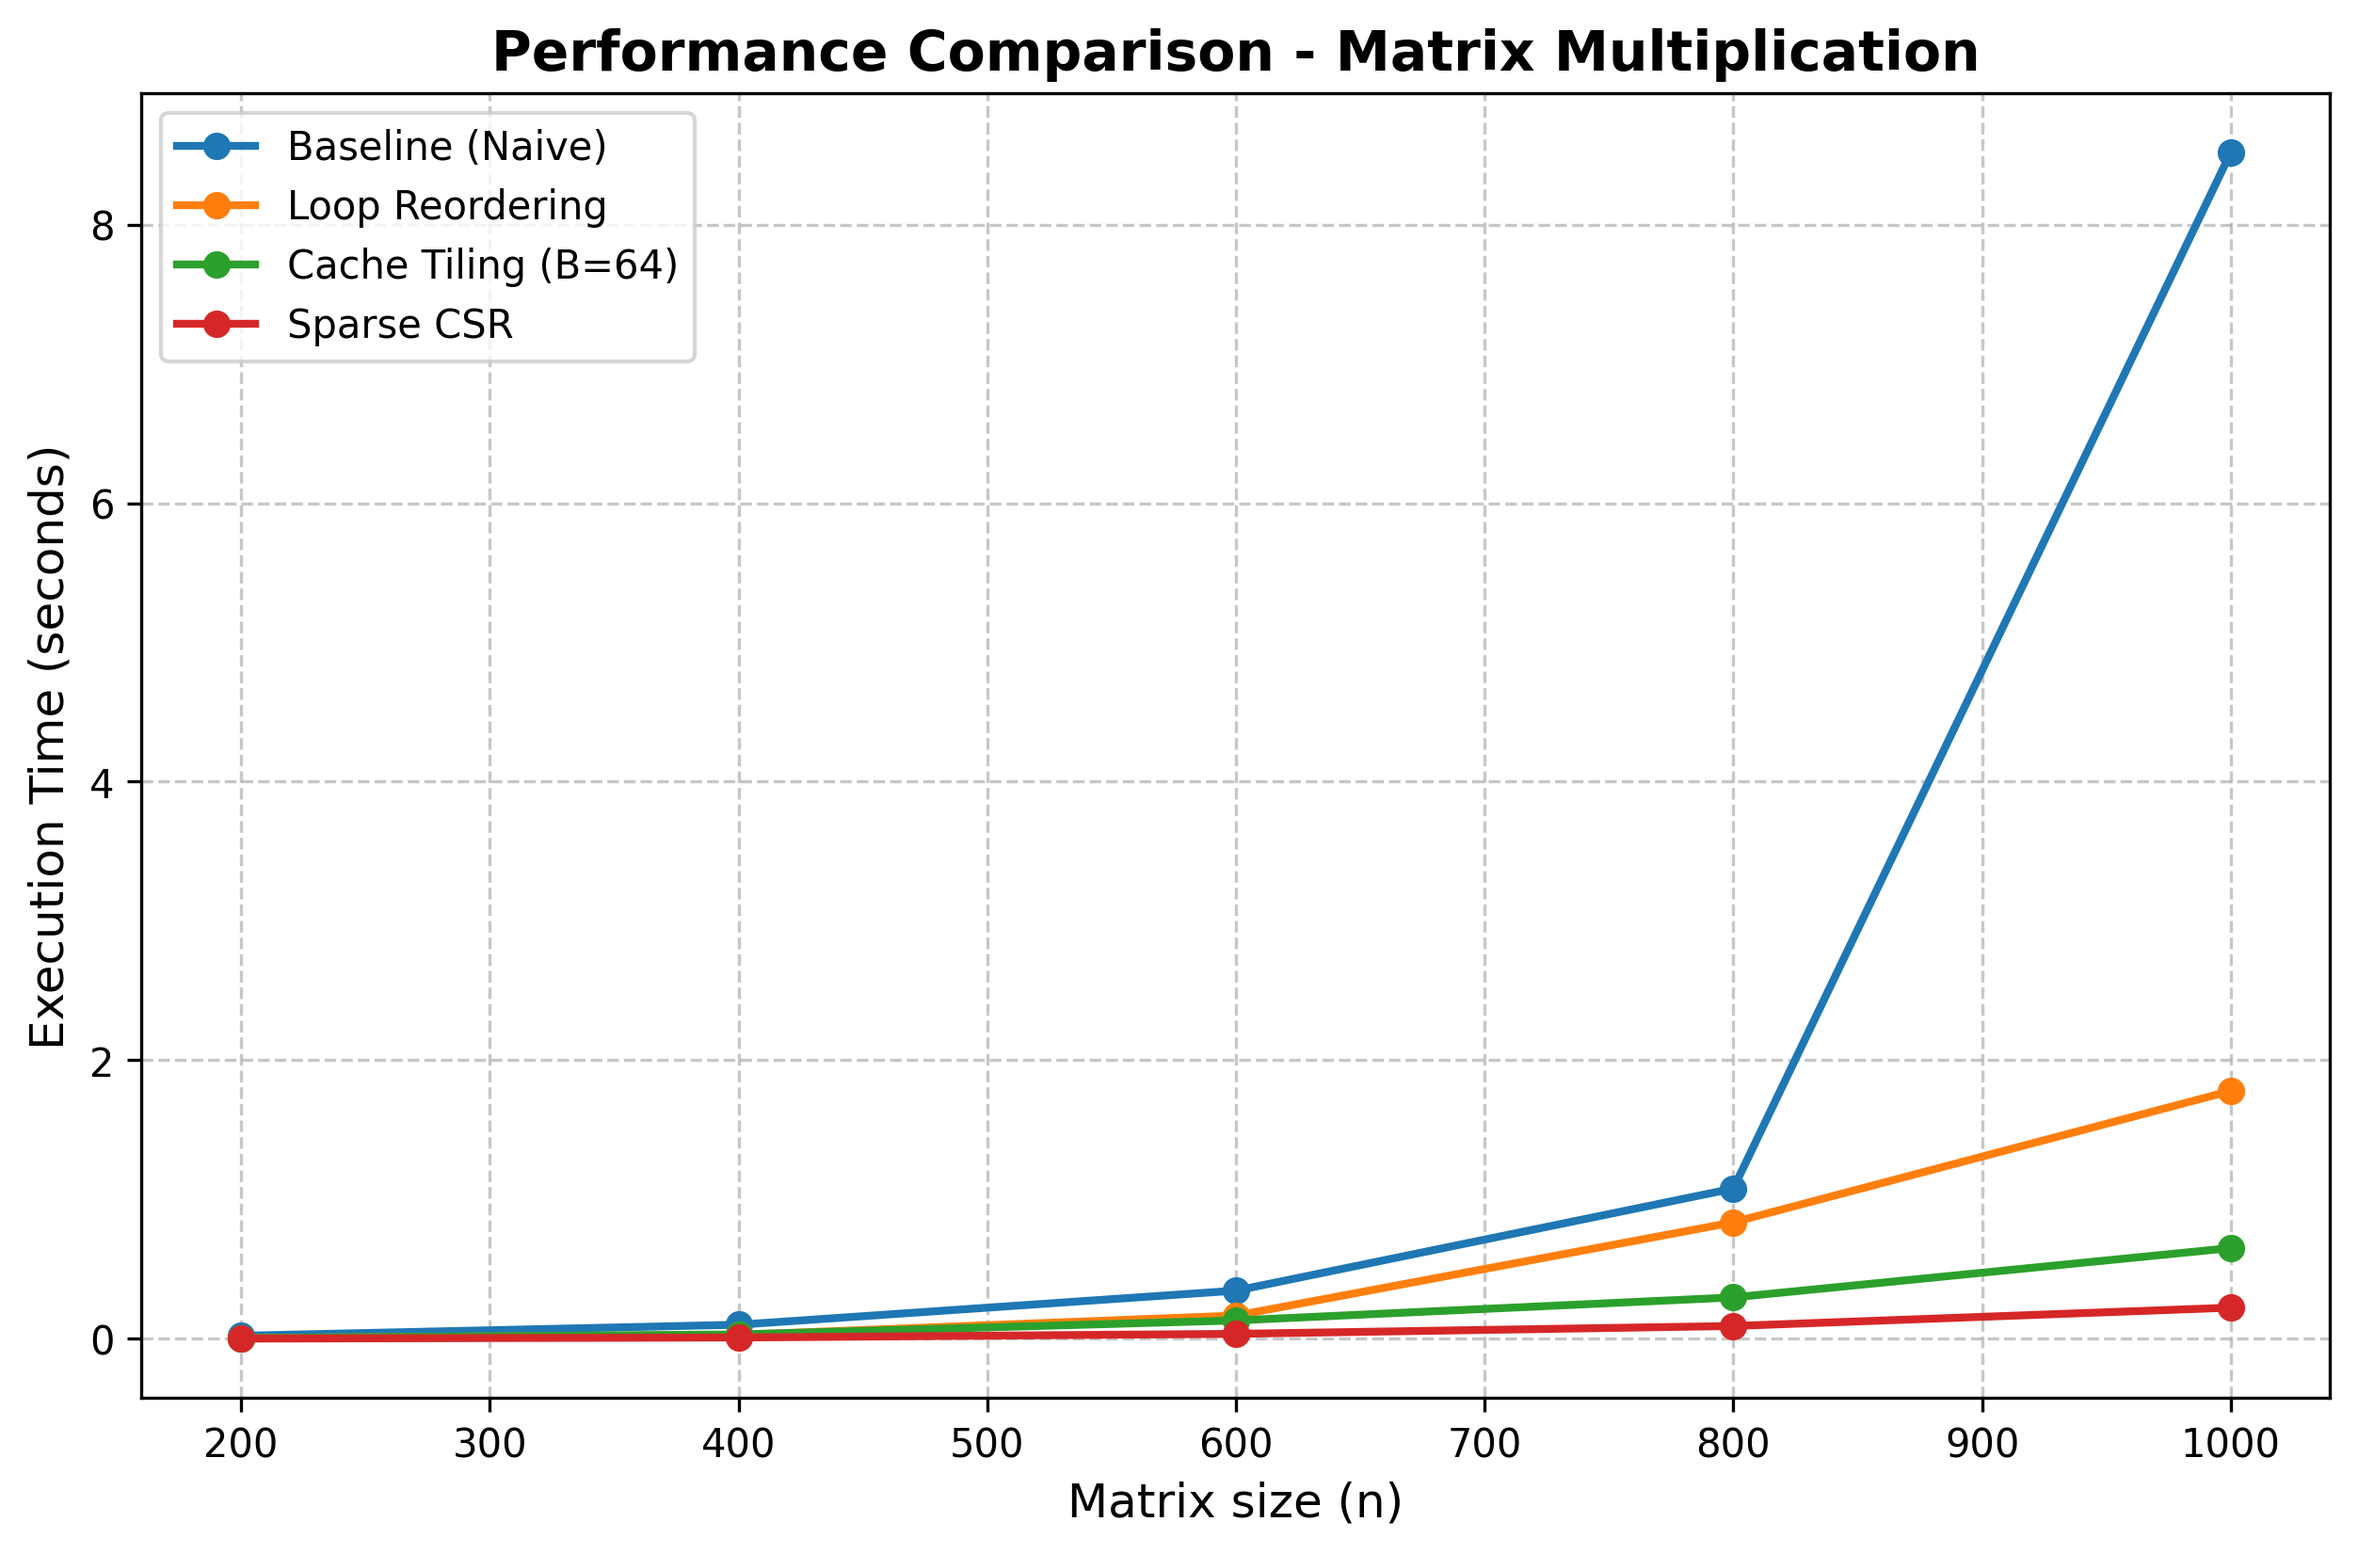
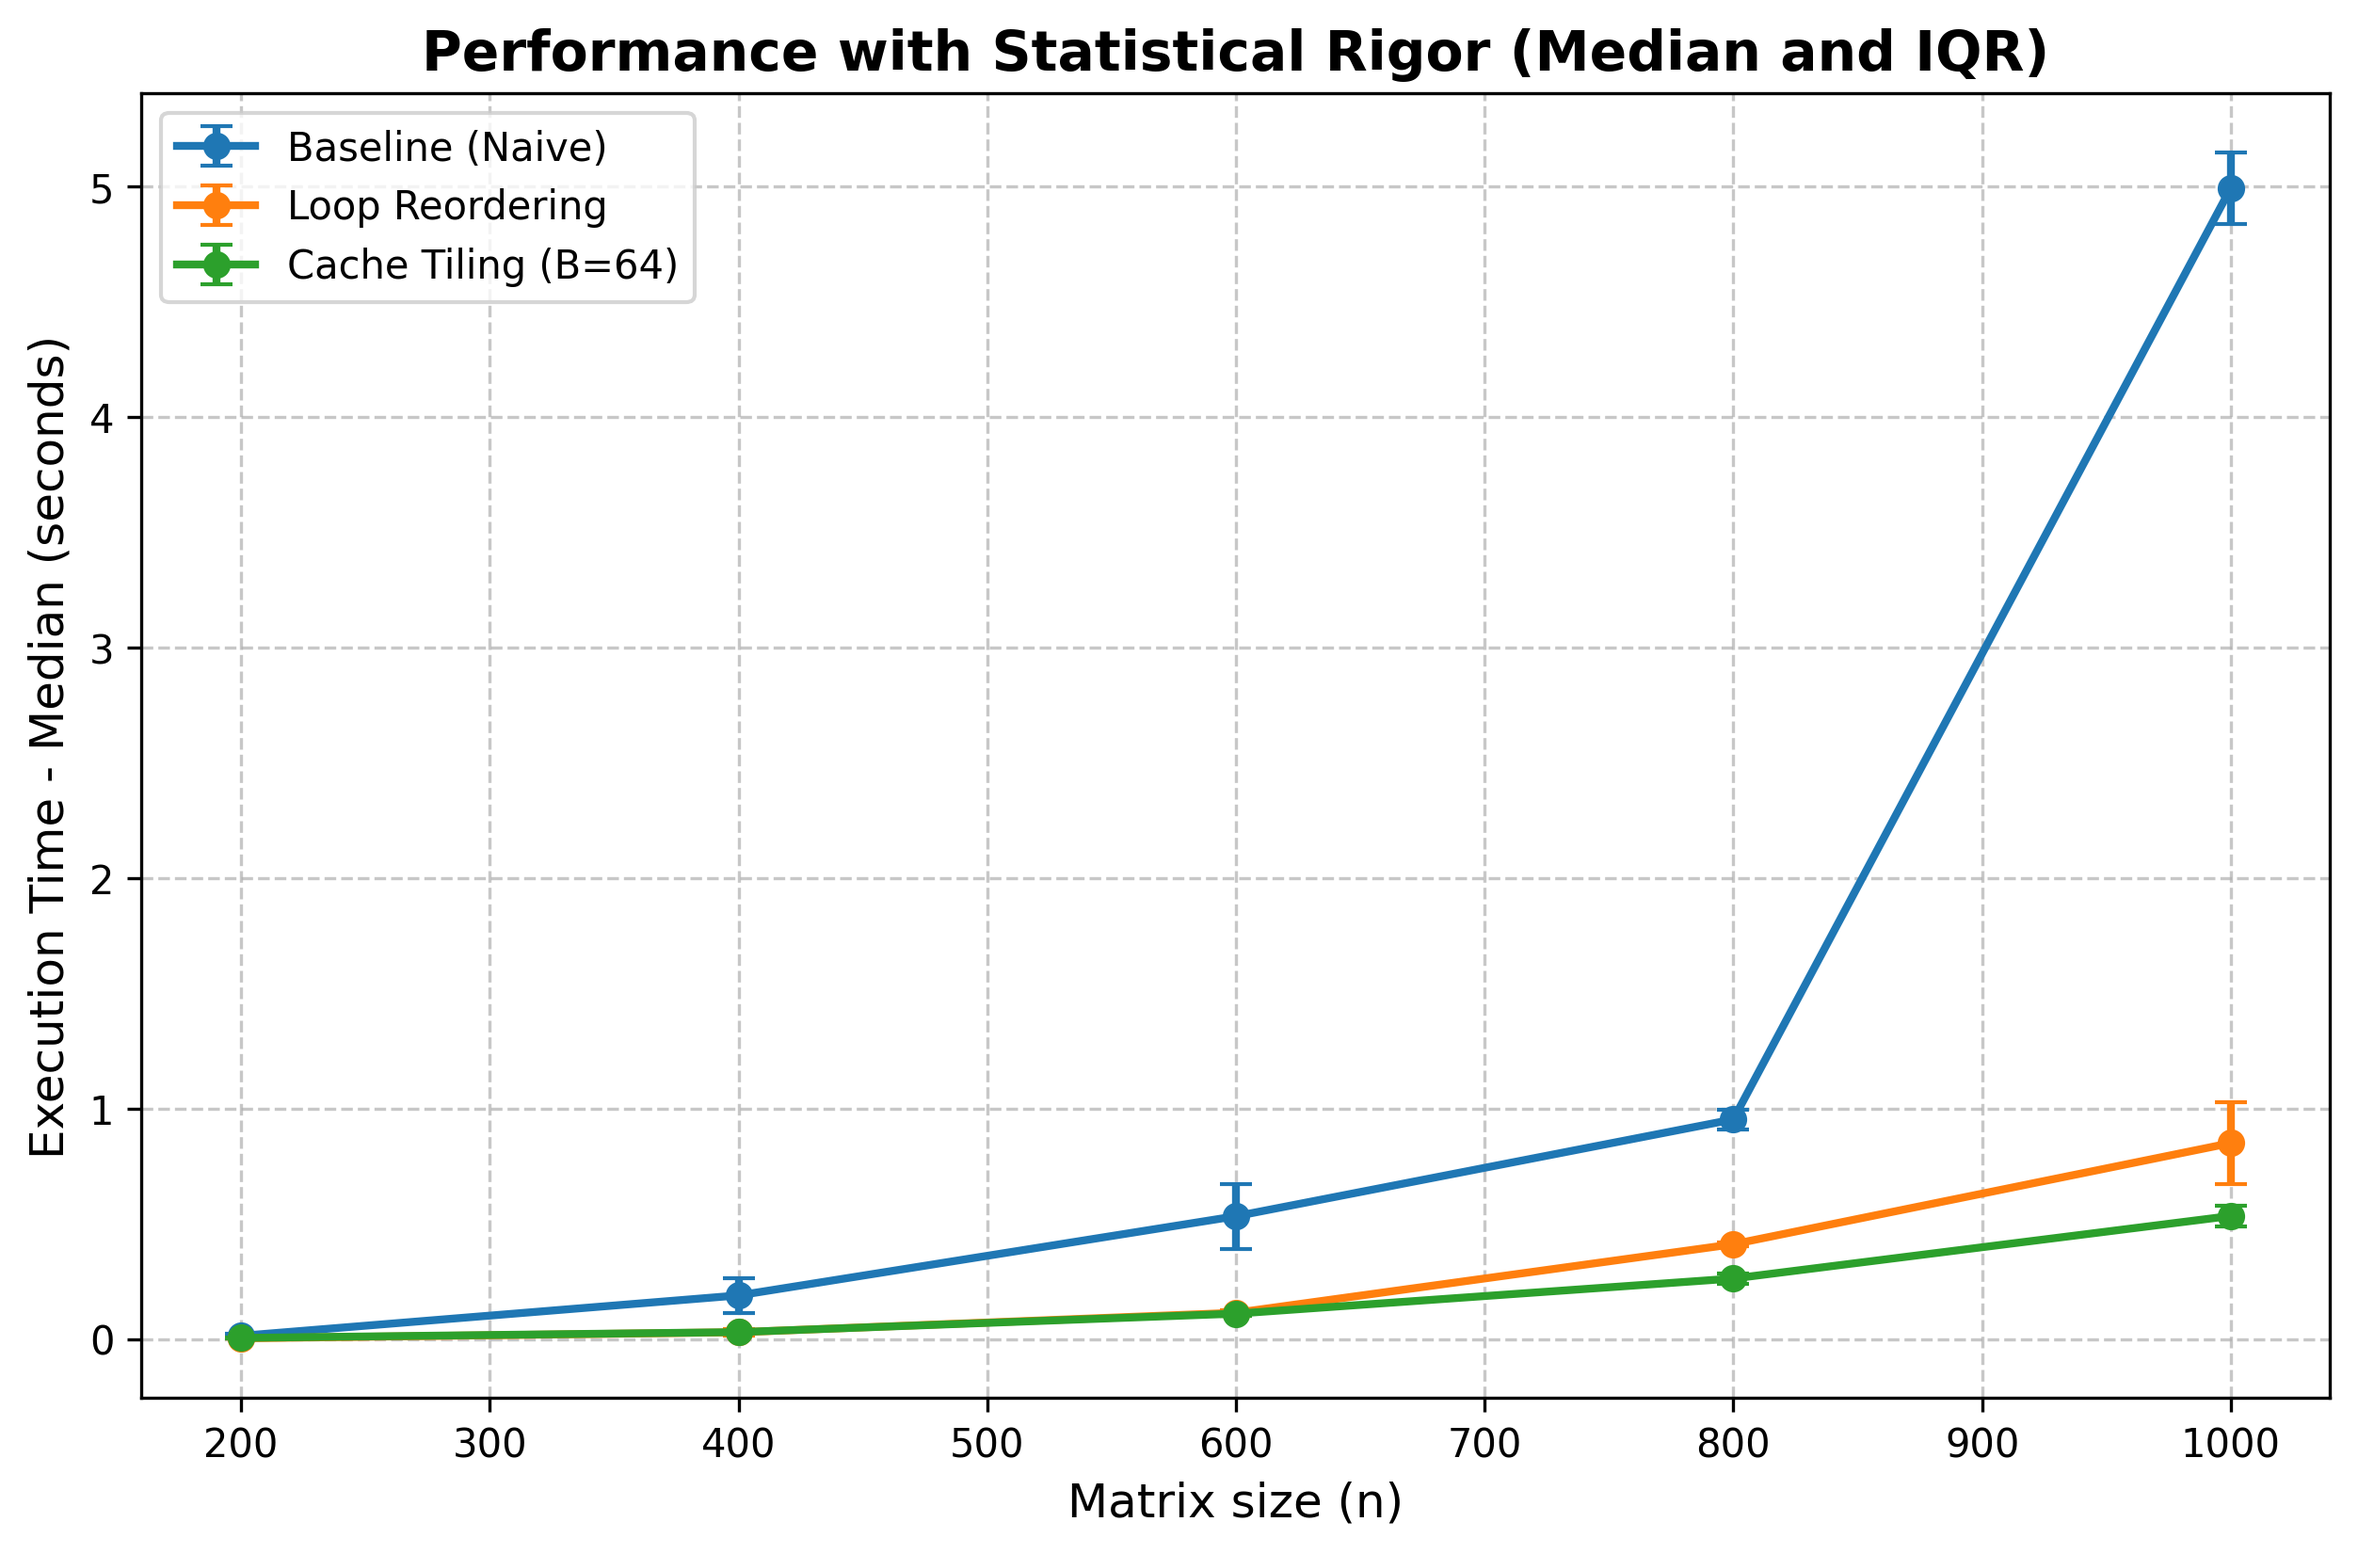
Corrections

diff --git a/assignment_2/src/sparse_mult.c b/assignment_2/src/sparse_mult.c
@@ -11,29 +11,24 @@ typedef struct {
     int *row_ptr;
 } CSRMatrix;
 
-void multiply_dense_csr(int n, double **A, CSRMatrix *B, double **C) {
+double** allocate_matrix(int n) {
+    double **matrix = (double **)malloc(n * sizeof(double *));
+    if (!matrix) { exit(EXIT_FAILURE); }
     for (int i = 0; i < n; i++) {
-        for (int j = 0; j < n; j++) {
-            C[i][j] = 0.0;
-        }
+        matrix[i] = (double *)malloc(n * sizeof(double));
+        if (!matrix[i]) { exit(EXIT_FAILURE); }
     }
-
-    for (int i = 0; i < n; i++) {
-        for (int k = 0; k < n; k++) {
-            double a_ik = A[i][k];
-            if (a_ik != 0.0) {
-                int row_start = B->row_ptr[k];
-                int row_end = B->row_ptr[k + 1];
-                for (int idx = row_start; idx < row_end; idx++) {
-                    int j = B->col_indices[idx];
-                    C[i][j] += a_ik * B->values[idx];
-                }
-            }
-        }
-    }
+    return matrix;
 }
 
-CSRMatrix* create_csr_from_dense(int n, double **dense_matrix, double sparsity_threshold) {
+void free_matrix(int n, double **matrix) {
+    for (int i = 0; i < n; i++) {
+        free(matrix[i]);
+    }
+    free(matrix);
+}
+
+CSRMatrix* create_csr_from_dense(int n, double **dense_matrix) {
     CSRMatrix *csr = (CSRMatrix *)malloc(sizeof(CSRMatrix));
     csr->rows = n;
     csr->cols = n;
@@ -41,9 +36,7 @@ CSRMatrix* create_csr_from_dense(int n, double **dense_matrix, double sparsity_t
     int nnz = 0;
     for (int i = 0; i < n; i++) {
         for (int j = 0; j < n; j++) {
-            if (dense_matrix[i][j] != 0.0) {
-                nnz++;
-            }
+            if (dense_matrix[i][j] != 0.0) nnz++;
         }
     }
     csr->non_zeros = nnz;
@@ -76,49 +69,69 @@ void free_csr(CSRMatrix *csr) {
     free(csr);
 }
 
-double** allocate_matrix(int n) {
-    double **matrix = (double **)malloc(n * sizeof(double *));
+void multiply_dense_csr(int n, double **A, CSRMatrix *B, double **C) {
     for (int i = 0; i < n; i++) {
-        matrix[i] = (double *)malloc(n * sizeof(double));
+        for (int j = 0; j < n; j++) {
+            C[i][j] = 0.0;
+        }
     }
-    return matrix;
-}
 
-void free_matrix(int n, double **matrix) {
     for (int i = 0; i < n; i++) {
-        free(matrix[i]);
+        for (int k = 0; k < n; k++) {
+            double a_ik = A[i][k];
+            if (a_ik != 0.0) {
+                int row_start = B->row_ptr[k];
+                int row_end = B->row_ptr[k + 1];
+                for (int idx = row_start; idx < row_end; idx++) {
+                    int j = B->col_indices[idx];
+                    C[i][j] += a_ik * B->values[idx];
+                }
+            }
+        }
     }
-    free(matrix);
 }
 
 int main(int argc, char *argv[]) {
-    int n = (argc > 1) ? atoi(argv[1]) : 500;
+    if (argc < 2) {
+        fprintf(stderr, "Usage: %s <matrix_size>\n", argv[0]);
+        return EXIT_FAILURE;
+    }
+
+    int n = atoi(argv[1]);
+    double sparsity_target = (argc > 2) ? atof(argv[2]) : 0.8;
 
     double **A = allocate_matrix(n);
     double **B_dense = allocate_matrix(n);
     double **C = allocate_matrix(n);
 
+    srand(42);
     for (int i = 0; i < n; i++) {
         for (int j = 0; j < n; j++) {
-            A[i][j] = (i + j) % 5 == 0 ? (i + j) % 10 + 1.0 : 0.0;
-            B_dense[i][j] = (i * j) % 7 == 0 ? (i - j) % 10 + 1.0 : 0.0;
+            A[i][j] = ((double)rand() / RAND_MAX < 0.5) ? ((double)(rand() % 10) + 1.0) : 0.0;
+            
+            double prob = (double)rand() / RAND_MAX;
+            B_dense[i][j] = (prob >= sparsity_target) ? ((double)(rand() % 10) + 1.0) : 0.0;
             C[i][j] = 0.0;
         }
     }
 
-    CSRMatrix *B_csr = create_csr_from_dense(n, B_dense, 0.0);
+    struct timespec conv_start, conv_end;
+    clock_gettime(CLOCK_MONOTONIC, &conv_start);
+    CSRMatrix *B_csr = create_csr_from_dense(n, B_dense);
+    clock_gettime(CLOCK_MONOTONIC, &conv_end);
+    double conversion_time = (conv_end.tv_sec - conv_start.tv_sec) + (conv_end.tv_nsec - conv_start.tv_nsec) / 1e9;
 
     struct timespec start, end;
     clock_gettime(CLOCK_MONOTONIC, &start);
-
     multiply_dense_csr(n, A, B_csr, C);
-
     clock_gettime(CLOCK_MONOTONIC, &end);
-
     double elapsed = (end.tv_sec - start.tv_sec) + (end.tv_nsec - start.tv_nsec) / 1e9;
 
-    printf("SPARSE MULT (CSR): n = %d | Non-zeros in B = %d | Time = %.6f seconds\n", 
-           n, B_csr->non_zeros, elapsed);
+    double checksum = 0.0;
+    for (int i = 0; i < n; i++) checksum += C[i][i];
+
+    printf("SPARSE CSR: n = %d | NNZ(B) = %d | ConvTime = %.6fs | MultTime = %.6fs | Checksum = %.4f\n", 
+           n, B_csr->non_zeros, conversion_time, elapsed, checksum);
 
     free_matrix(n, A);
     free_matrix(n, B_dense);

diff --git a/assignment_2/scripts/benchmark.py b/assignment_2/scripts/benchmark.py
@@ -1,9 +1,12 @@
 import subprocess
 import re
 import os
+import numpy as np
 import matplotlib.pyplot as plt
 
 sizes = [200, 400, 600, 800, 1000]
+repetitions = 7
+sparsity_level = 0.8
 
 executables = {
     'Baseline (Naive)': './baseline.exe',
@@ -12,60 +15,69 @@ executables = {
     'Sparse CSR': './sparse_mult.exe'
 }
 
-data = {name: [] for name in executables}
-
 os.makedirs('results', exist_ok=True)
+raw_records = []
+summary_data = {name: {'sizes': [], 'median': [], 'iqr': []} for name in executables}
 
 print("Starting performance tests (benchmarks)...")
 
-for n in sizes:
-    print(f" Testing matrix size n = {n}...")
-    for name, exe in executables.items():
-        if not os.path.exists(exe):
-            print(f"  [Warning] Not found {exe}. Compile it before running the script.")
-            data[name].append(None)
-            continue
-
-        args = [exe, str(n)]
-        if 'Cache Tiling' in name:
-            args.append('64')
+for name, exe in executables.items():
+    if not os.path.exists(exe):
+        print(f"  [Warning] Not found {exe}. Compile it before running the script.")
+        continue
+    print(f"\n Running {name}...")
+    
+    for n in sizes:
+        times = []
+        for rep in range(repetitions):
+            args = [exe, str(n)]
+            if 'Cache Tiling' in name:
+                args.append('64')
+            elif 'Sparse CSR' in name:
+                args.append(str(sparsity_level))
             
-        try:
-            result = subprocess.run(args, capture_output=True, text=True, check=True)
-            output = result.stdout
+            try:
+                result = subprocess.run(args, capture_output=True, text=True, check=True)
+                match = re.search(r'(?:Time|MultTime)\s*=\s*([0-9.]+)\s*seconds', result.stdout)
+                if match:
+                    t = float(match.group(1))
+                    times.append(t)
+                    is_warmup = "Yes" if rep == 0 else "No"
+                    raw_records.append(f"{n},{name},{rep},{is_warmup},{t}\n")
+            except Exception as e:
+                print(f" [Error] n={n}, rep={rep}: {e}")
+        
+        valid_times = times[1:] if len(times) > 1 else times
+        if valid_times:
+            med = np.median(valid_times)
+            q75, q25 = np.percentile(valid_times, [75 ,25])
+            iqr = q75 - q25
             
-            match = re.search(r'Time\s*=\s*([0-9.]+)\s*seconds', output)
-            if match:
-                t = float(match.group(1))
-                data[name].append(t)
-            else:
-                data[name].append(None)
-        except Exception as e:
-            print(f"  [Error] Execution failed for {exe}: {e}")
-            data[name].append(None)
-
-csv_path = 'results/benchmark_results.csv'
-with open(csv_path, 'w', encoding='utf-8') as f:
-    f.write("Size," + ",".join(executables.keys()) + "\n")
-    for i, n in enumerate(sizes):
-        row = [str(n)]
-        for name in executables.keys():
-            val = data[name][i] if i < len(data[name]) else None
-            row.append(str(val) if val is not None else "N/A")
-        f.write(",".join(row) + "\n")
-
-print(f"\n Results saved successfully in '{csv_path}'")
+            summary_data[name]['sizes'].append(n)
+            summary_data[name]['median'].append(med)
+            summary_data[name]['iqr'].append(iqr)
+            print(f" n={n:4d} | Median: {med:.6f} s | IQR: {iqr:.6f} s")
+            
+raw_csv_path = 'results/benchmark_results.csv'
+with open(raw_csv_path, 'w', encoding='utf-8') as f:
+    f.write("Size,Method,Repetition,IsWarmup,TimeSeconds\n")
+    f.writelines(raw_records)
+print(f"\n Results saved successfully in '{raw_csv_path}'")
 
 plt.figure(figsize=(10, 6))
-for name, times in data.items():
-    valid_times = [t for t in times if t is not None]
-    valid_sizes = [sizes[i] for i, t in enumerate(times) if t is not None]
-    if valid_times:
-        plt.plot(valid_sizes, valid_times, marker='o', linewidth=2, label=name)
-
+for name, dat in summary_data.items():
+        if dat['sizes']:
+            plt.errorbar(
+                dat['sizes'],
+                dat['median'],
+                yerr=dat['iqr'],
+                marker='o', linewidth=2, capsize=4,
+                label=name
+            )
+            
 plt.xlabel('Matrix size (n)', fontsize=12)
-plt.ylabel('Execution Time (seconds)', fontsize=12)
-plt.title('Performance Comparison - Matrix Multiplication', fontsize=14, fontweight='bold')
+plt.ylabel('Execution Time - Median (seconds)', fontsize=12)
+plt.title('Performance with Statistical Rigor (Median and IQR)', fontsize=14, fontweight='bold')
 plt.legend(fontsize=10)
 plt.grid(True, linestyle='--', alpha=0.7)
 

diff --git a/assignment_2/src/baseline.c b/assignment_2/src/baseline.c
@@ -2,22 +2,18 @@
 #include <stdlib.h>
 #include <time.h>
 
-void multiply_baseline(int n, double **A, double **B, double **C) {
-    for (int i = 0; i < n; i++) {
-        for (int j = 0; j < n; j++) {
-            double sum = 0.0;
-            for (int k = 0; k < n; k++) {
-                sum += A[i][k] * B[k][j];
-            }
-            C[i][j] = sum;
-        }
-    }
-}
-
 double** allocate_matrix(int n) {
     double **matrix = (double **)malloc(n * sizeof(double *));
+    if (matrix == NULL) {
+        fprintf(stderr, "Error: Failed to allocate memory for the rows.\n");
+        exit(EXIT_FAILURE);
+    }
     for (int i = 0; i < n; i++) {
         matrix[i] = (double *)malloc(n * sizeof(double));
+        if (matrix[i] == NULL) {
+            fprintf(stderr, "Error: Failed to allocate memory for the columns.\n");
+            exit(EXIT_FAILURE);
+        }
     }
     return matrix;
 }
@@ -29,8 +25,28 @@ void free_matrix(int n, double **matrix) {
     free(matrix);
 }
 
+void multiply_baseline(int n, double **A, double **B, double **C) {
+    for (int i = 0; i < n; i++) {
+        for (int j = 0; j < n; j++) {
+            C[i][j] = 0.0;
+            for (int k = 0; k < n; k++) {
+                C[i][j] += A[i][k] * B[k][j];
+            }
+        }
+    }
+}
+
 int main(int argc, char *argv[]) {
-    int n = (argc > 1) ? atoi(argv[1]) : 500;
+    if (argc < 2) {
+        fprintf(stderr, "Usage: %s <matrix_size>\n", argv[0]);
+        return EXIT_FAILURE;
+    }
+
+    int n = atoi(argv[1]);
+    if (n <= 0) {
+        fprintf(stderr, "Error: The matrix size must be greater than 0.\n");
+        return EXIT_FAILURE;
+    }
     
     double **A = allocate_matrix(n);
     double **B = allocate_matrix(n);
@@ -38,8 +54,8 @@ int main(int argc, char *argv[]) {
 
     for (int i = 0; i < n; i++) {
         for (int j = 0; j < n; j++) {
-            A[i][j] = (i + j) % 10 + 1.0;
-            B[i][j] = (i - j) % 10 + 1.0;
+            A[i][j] = (double)((i + j) % 10 + 1.0);
+            B[i][j] = (double)((i - j) % 10 + 1.0);
             C[i][j] = 0.0;
         }
     }
@@ -53,8 +69,13 @@ int main(int argc, char *argv[]) {
 
     double elapsed = (end.tv_sec - start.tv_sec) + (end.tv_nsec - start.tv_nsec) / 1e9;
 
-    printf("BASELINE (Naive): n = %d | Time = %.6f seconds\n", n, elapsed);
+    double checksum = 0.0;
+    for (int i = 0; i < n; i++) {
+        checksum += C[i][i];
+    }
 
+    printf("BASELINE (Naive): n = %d | Checksum = %.4f | Time = %.6f seconds\n", n, checksum, elapsed);
+    
     free_matrix(n, A);
     free_matrix(n, B);
     free_matrix(n, C);
